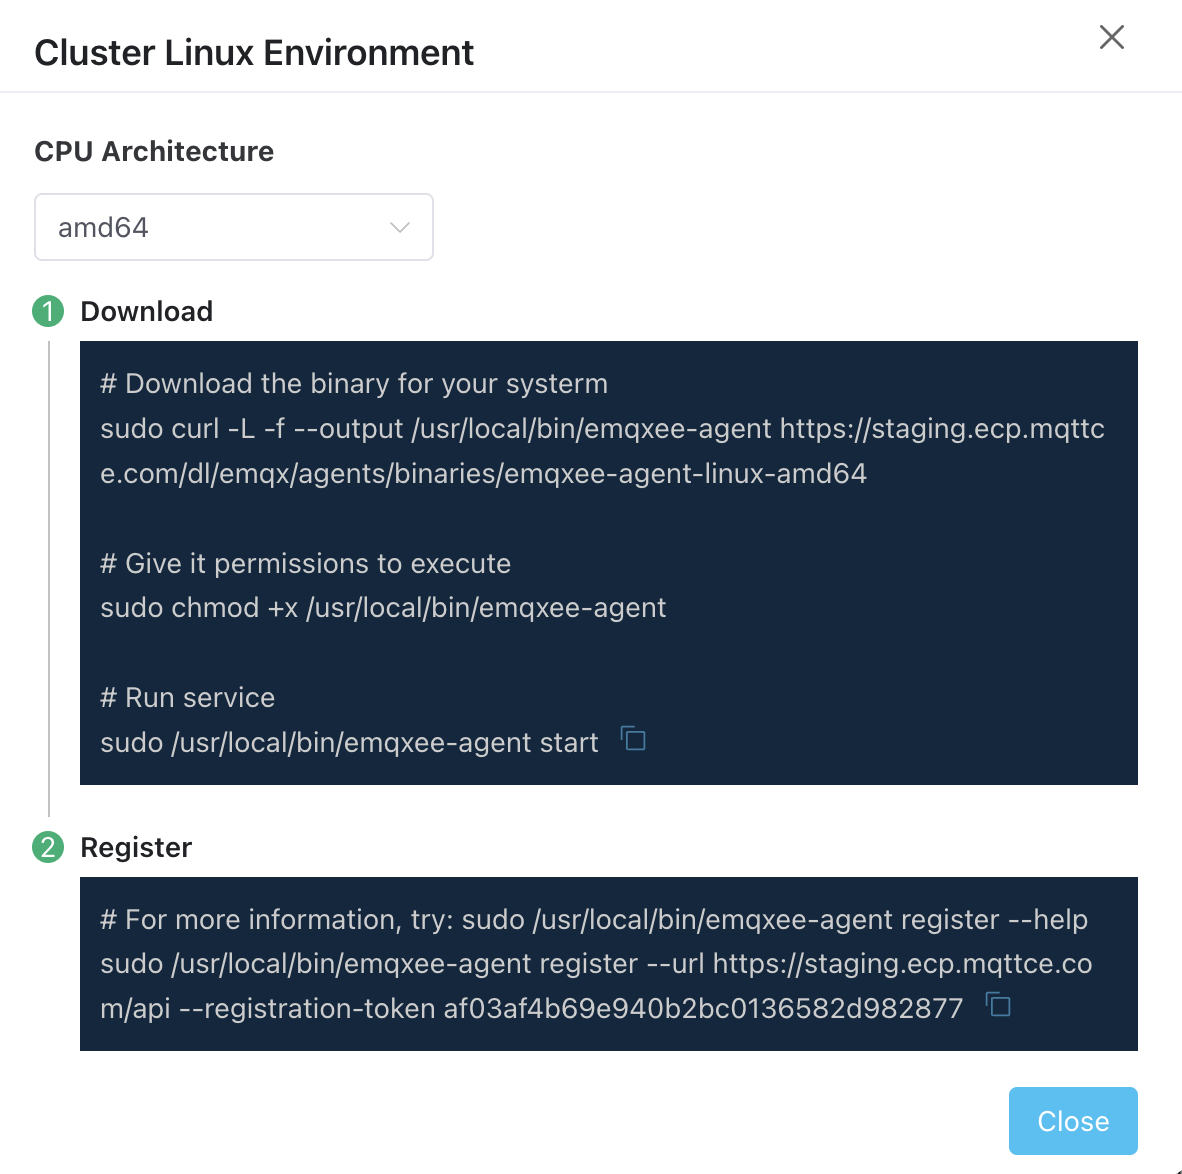
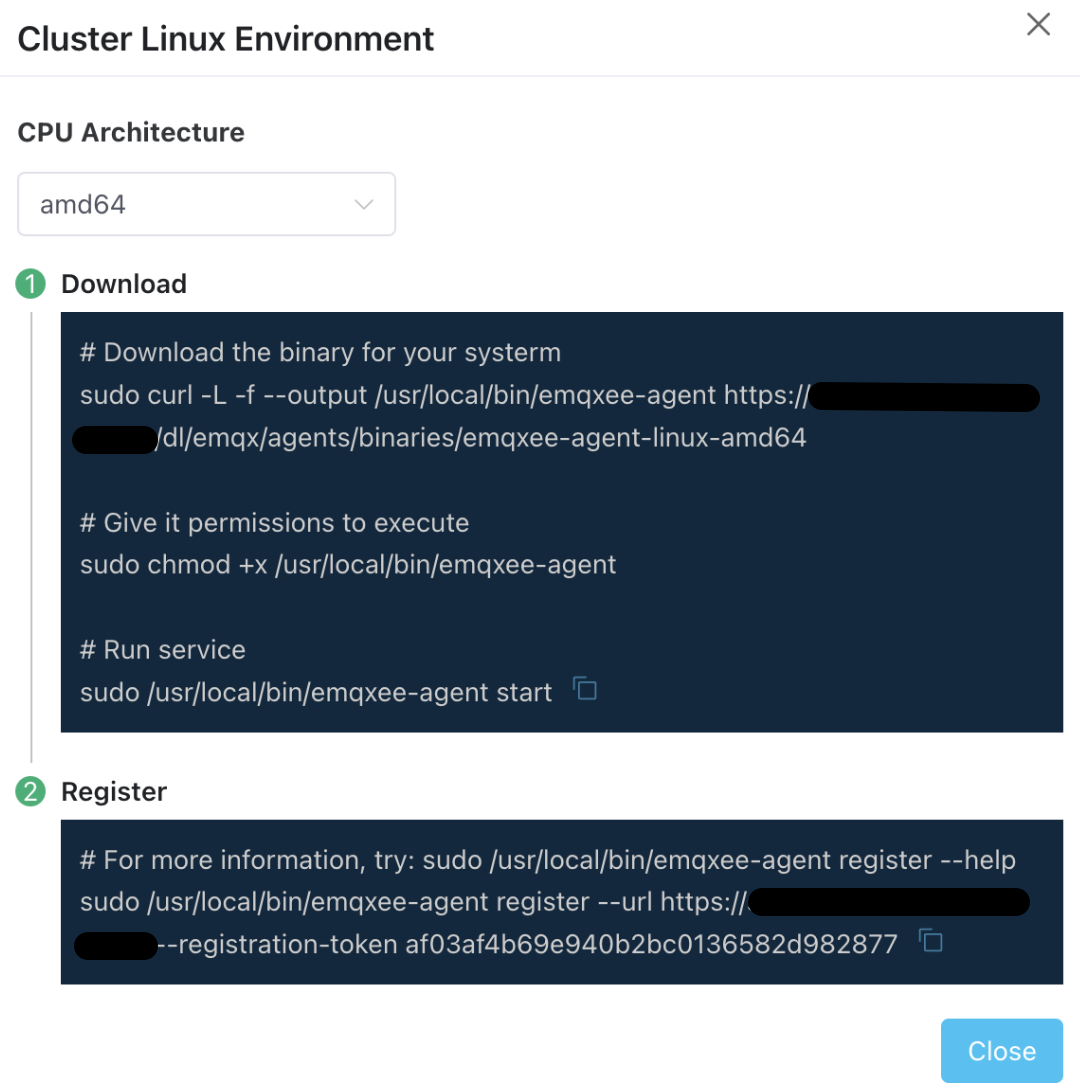
fix mqttce

diff --git a/ecp/en_US/cluster/add_manage.md b/ecp/en_US/cluster/add_manage.md
@@ -70,7 +70,7 @@ ECP also provides the capability to manage existing EMQX clusters. To add an exi
 
    ```bash
    # Download EMQX Agent
-   sudo curl -L -f --output /usr/local/bin/emqxee-agent https://staging.ecp.mqttce.com/dl/emqx/agents/emqxee-agent-linux-amd64
+   sudo curl -L -f --output /usr/local/bin/emqxee-agent https://[emqxee-agent]
    
    # Update EMQX Agent permission
    sudo chmod +x /usr/local/bin/emqxee-agent
@@ -79,7 +79,7 @@ ECP also provides the capability to manage existing EMQX clusters. To add an exi
    sudo /usr/local/bin/emqxee-agent start
    
    # Register on ECP
-   sudo /usr/local/bin/emqxee-agent register --url https://staging.ecp.mqttce.com/api --registration-token bf2779e5176446cd8e18fde81d826497
+   sudo /usr/local/bin/emqxee-agent register --url https://[emqxee-agent] --registration-token bf2779e5176446cd8e18fde81d826497
    ```
 
 9. Upon returning to the **ECP Workbench - Cluster** page, you will find that the newly added existing cluster is now in the **Running** status.![](./_assets/cluster-existing.png) 
